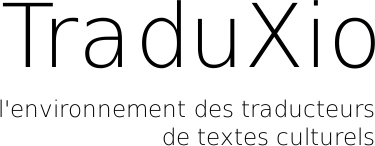
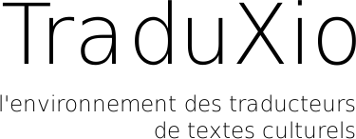
Homepage resizing

diff --git a/public/css/global.css b/public/css/global.css
@@ -1161,18 +1161,6 @@ tr.tag-line{vertical-align:top;}
 td div.show-tag-area{padding-left:0px;}
 .rminus1{margin-right:-1px;}
 
-/*
-#home-logo{
-margin:50px 10px;
-background-image:url(../images/ls3.png);
-background-image:url(../images/tralogo1.png);
-background-repeat:no-repeat;
-text-align:center;
-}*/
-
-img.home-logo{
-
-}
 
 .lightimage{
 margin-top:20px;
@@ -1205,16 +1193,6 @@ background-position: -50px -120px;
 background-position: -50px -170px;
 }
 
-#letters{
-background: transparent url(../images/buttondark.png) no-repeat ;
-float:right;
-width:300px;
-text-align:center;
-margin-left:10px;
-margin-right:20px;
-}
-
-
 .tutorial-text{
 list-style:decimal;
 list-style-position:inside;
@@ -1229,43 +1207,18 @@ font-style:bolder;
 padding:10px 20px;
 }
 
-
-#int,#comp,#par{
-font-size:40px;
-}
-
-#comp{
-padding:10px 10px 20px 30px;
-}
-
-#par{
-padding:170px 0px 0px 500px;
-}
-#int{
-padding:150px 10px 20px 0px;
-}
-
-#phrase{
-padding:250px 80px 0 0px;
-font-size: 1.6em;
-font-family:Arial;
-text-align:right;
-}
-
 div#traduxio_logo{
-margin:100px 20px 30px 200px;
+margin:30px 20px 20px 100px;
 text-align:left;
 vertical-align:top;
-
 }
 
 div#logo_cip{
 text-align:center;
-margin-top:60px;
-margin-bottom:100px;
+clear:both;
 }
 
-div#letters2{
+div#index{
 float:right;
 width:300px;
 }
